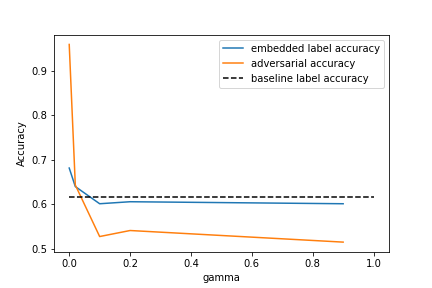
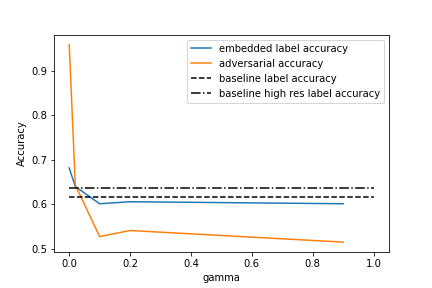
Added high-res only option for data gen

Changed region(s): [[0.4213, 0.125, 0.9028, 0.375], [0.1505, 0.625, 0.8727, 0.6562]]

diff --git a/utils/DataSplitting.py b/utils/DataSplitting.py
@@ -6,6 +6,8 @@ from torch.utils.data import TensorDataset
 params = {"batch_size": 128, "shuffle": True}
 
 # Useful functions for generating data and generators
+
+# todo: Want to be able to generate all high res
 def gen_galton_data(
     alpha,
     Ntot_sims,
@@ -15,6 +17,7 @@ def gen_galton_data(
     odds_skew=0.55,
     n_dims=1,
     sigma=0.4,
+    all_high_res=False,
 ):
     """
     labels: 0 = skewed, 1 = unskewed
@@ -32,7 +35,7 @@ def gen_galton_data(
         sigma=sigma,
     )
     g_high_unskew = Galton(
-        n_steps=n_high_steps, odds_right=0.5, n_dims=n_dims, noise=True, sigma=sigma
+        n_steps=n_high_steps, odds_right=0.5, n_dims=n_dims, noise=True, sigma=sigma,
     )
     g_low_skew = Galton(
         n_steps=n_low_steps,
@@ -45,18 +48,29 @@ def gen_galton_data(
         n_steps=n_low_steps, odds_right=0.5, n_dims=n_dims, noise=True, sigma=sigma
     )
 
-    pos_high_skew_arr = np.array(
-        [g_high_skew.simulate(n_balls=n_balls) for _ in range(Nsims_high_skew)]
-    )
-    pos_high_unskew_arr = np.array(
-        [g_high_unskew.simulate(n_balls=n_balls) for _ in range(Nsims_high_unskew)]
-    )
-    pos_low_skew_arr = np.array(
-        [g_low_skew.simulate(n_balls=n_balls) for _ in range(Nsims_high_unskew)]
-    )
-    pos_low_unskew_arr = np.array(
-        [g_low_unskew.simulate(n_balls=n_balls) for _ in range(Nsims_high_skew)]
-    )
+    if all_high_res:
+        pos_high_skew_arr = np.array(
+            [g_high_skew.simulate(n_balls=n_balls) for _ in range(Ntot_sims)]
+        )
+        pos_high_unskew_arr = np.array(
+            [g_high_unskew.simulate(n_balls=n_balls) for _ in range(Ntot_sims)]
+        )
+        pos_low_skew_arr = np.array([])
+        pos_low_unskew_arr = np.array([])
+
+    else:
+        pos_high_skew_arr = np.array(
+            [g_high_skew.simulate(n_balls=n_balls) for _ in range(Nsims_high_skew)]
+        )
+        pos_high_unskew_arr = np.array(
+            [g_high_unskew.simulate(n_balls=n_balls) for _ in range(Nsims_high_unskew)]
+        )
+        pos_low_skew_arr = np.array(
+            [g_low_skew.simulate(n_balls=n_balls) for _ in range(Nsims_high_unskew)]
+        )
+        pos_low_unskew_arr = np.array(
+            [g_low_unskew.simulate(n_balls=n_balls) for _ in range(Nsims_high_skew)]
+        )
 
     data = torch.cat(
         (
@@ -224,10 +238,16 @@ def get_embedding_data(
     )
 
     embedding_0_train, embedding_1_train = fair._embed(
-        data_0_train, data_1_train, context_0_train.unsqueeze(1), context_1_train.unsqueeze(1)
+        data_0_train,
+        data_1_train,
+        context_0_train.unsqueeze(1),
+        context_1_train.unsqueeze(1),
     )
     embedding_0_test, embedding_1_test = fair._embed(
-        data_0_test, data_1_test, context_0_test.unsqueeze(1), context_1_test.unsqueeze(1)
+        data_0_test,
+        data_1_test,
+        context_0_test.unsqueeze(1),
+        context_1_test.unsqueeze(1),
     )
 
     embedding_data_train = torch.cat(
